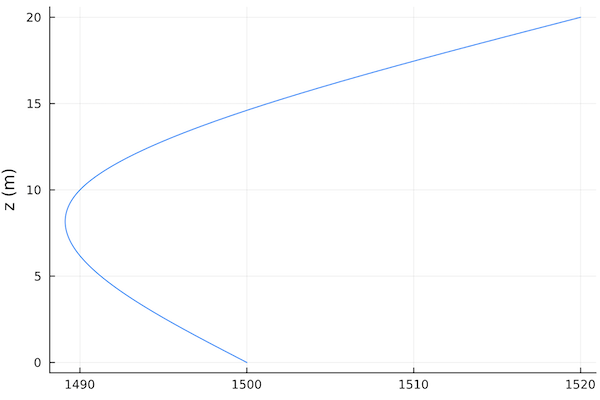
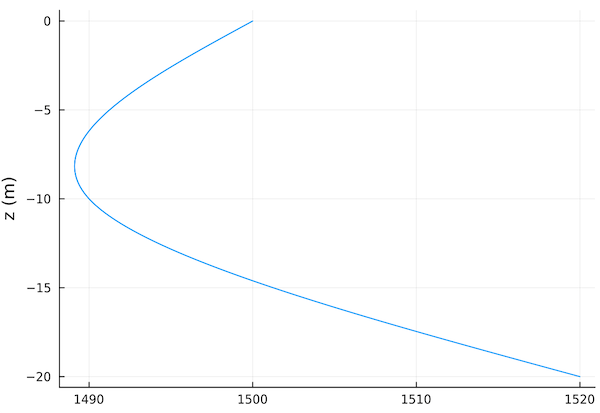
doc: add porting guide and improve quickstart

diff --git a/docs/src/porting.md b/docs/src/porting.md
@@ -1,1 +1,77 @@
 # Porting guide
+
+The `UnderwaterAcoustics.jl` API was changed in `v0.4` to make it more flexible to accommodate more types of acoustic propagation models, and for improved readability. The changes are summarized below to aid in porting old code to the new version.
+
+## Underwater acoustics API
+
+The following functions have been renamed:
+
+| Old function name | New function name          |
+|-------------------|----------------------------|
+| `bubbleresonance` | `bubble_resonance`         |
+| `indBperλ`        | `in_dBperλ`                |
+| `reflectioncoef`  | `reflection_coef`          |
+| `surfaceloss`     | `surface_reflection_coef`  |
+| `waterdensity`    | `water_density`            |
+
+## Propagation modeling API
+
+### Environment description
+
+Various attributes of the environment description are now directly accessed as fields, rather than through accessor methods:
+
+| Old accessor        | New field access |
+|---------------------|------------------|
+| `altimetry(env)`    | `env.altimetry`  |
+| `bathymetry(env)`   | `env.bathymetry` |
+| `ssp(env)`          | `env.soundspeed` |
+| `salinity(env)`     | `env.salinity`   |
+| `waterdensity(env)` | `env.density`    |
+| `seasurface(env)`   | `env.surface`    |
+| `seabed(env)`       | `env.seabed`     |
+
+The environment description supports [Fields](@ref) that can vary with spatial coordinates. This removes the need wrapping of constants with `ConstantDepth()`, `IsoSSP()`, etc. Instead, constant fields are just represented by the real numbers directly. Quantities varying with spatial coordinates are represented generically using a `SampledField` rather than specific types such as `SampledSSP`.
+
+The defaults for an `UnderwaterEnvironment` have also changed to become more generic. For example, the default seabed is now a `RigidBoundary` and the default sea surface is a `PressureReleaseBoundary`. Contrast this against the arbitrary default in `v0.3` of the default seabed being a `SandySilt`.
+
+Noise is no longer defined as part of the environmental description, and is defined as part of the new [Channel modeling](@ref) API.
+
+### Propagation modeling
+
+The `PekerisRayModel` is now renamed to `PekerisRayTracer`, and takes in maximum number of bounces as an optional argument, instead of number of rays. The `eigenrays` function is no longer supported, but its functionality is provided by `arrivals`. While `eigenrays` was specific to ray models, `arrivals` is more generic and may return modes, etc, depending on the propagation model. A few other functions have been renamed:
+
+| Old function                  | New function                        |
+|-------------------------------|-------------------------------------|
+| `PekerisRayModel(env, nrays)` | `PekerisRayTracer(env, maxbounces)` |
+| `eigenrays`                   | `arrivals`                          |
+| `transmissionloss`            | `transmission_loss`                 |
+| `transfercoef`                | `acoustic_field`                    |
+| `impulseresponse`             | `impulse_response`                  |
+
+The plotting API no longer takes special keyword arguments such as `sources` and `receivers`. Instead, plot recipes are provided for each of the data types directly. So we can plot sources, receivers, arrivals, etc directly:
+```julia
+env = PekerisWaveguide(h=20, seabed=SandyClay)
+pm = PekerisRayTracer(env)
+tx = AcousticSource(0.0, -5.0, 1000.0)
+rx = AcousticReceiver(100.0, -10.0)
+rays = arrivals(pm, tx, rx)
+
+plot(env)
+plot!(tx)
+plot!(rx)
+plot!(rays)
+```
+
+### Acoustic simulations
+
+The `record` and `recorder` functions used for acoustic simulations have been removed. Instead, a new [Channel modeling](@ref) API with a `transmit` function provides similar functionality, but is a lot more flexible.
+
+Example:
+```julia
+ch = channel(pm, tx, rx, 192000)
+y = transmit(ch, x)                 # for some signal x
+```
+
+The channel API also supports [Channel replay](@ref) and data-driven acoustic channels that are not derived from propagation models.
+
+Specific sources such as `Pinger` and `NarrowbandAcousticSource` have been removed. Other packages such as `SignalAnalysis` may be used to create a diverse set of sampled signals that can be transmitted through the acoustic channel using the `transmit` function.

diff --git a/docs/src/quickstart.md b/docs/src/quickstart.md
@@ -4,9 +4,19 @@
 
 The underwater acoustic propagation & channel modeling toolkit provides a framework for modeling and simulating underwater acoustic environments with multiple sources and receivers. The toolkit provides a pluggable interface that allows different propagation models to be used with the same scene description. While `UnderwaterAcoustics.jl` provides several propagation model implementations that can be used out-of-the-box, the interface is designed to allow third party propagation models to be easily plugged in to the toolkit as well.
 
-Available models:
+#### Available models:
 
-TODO
+| Model | Package | Description | Language | Strengths | Limitations |
+|-------|---------|-------------|----------|-----------|-------------|
+| `PekerisRayTracer` | `UnderwaterAcoustics` | Ray model for Pekeris waveguides | Julia | fast, differentiable, multi-threaded | isovelocity, range independent, high frequency |
+| `PekerisModeSolver` | `UnderwaterAcoustics` | Normal mode model for Pekeris waveguides | Julia | fast, differentiable, multi-threaded | isovelocity, range independent, low frequency |
+| `RaySolver` | [`AcousticRayTracers`](https://github.com/org-arl/AcousticRayTracers.jl) | Ray / Gaussian beam tracer | Julia | differentiable, multi-threaded | - |
+| `Bellhop` | [`AcousticToolbox`](https://github.com/org-arl/AcousticsToolbox.jl) | Interface to [OALIB](http://oalib.hlsresearch.com/AcousticsToolbox/) Bellhop ray tracer | Fortran | well-established benchmark model | not differentiable |
+| `Kraken` | [`AcousticToolbox`](https://github.com/org-arl/AcousticsToolbox.jl) | Interface to [OALIB](http://oalib.hlsresearch.com/AcousticsToolbox/) Kraken normal mode model | Fortran | well-established benchmark model | not differentiable |
+
+!!! note
+
+    The experimental [`DataDrivenAcoustics`](https://github.com/org-arl/DataDrivenAcoustics.jl) models are loosely based on `UnderwaterAcoustics.jl`, but have not been upgraded to the `v0.4` API yet.
 
 ## Quickstart guide
 
@@ -39,7 +49,7 @@ If the defaults don't suit our needs, we can customize the environment. For exam
 ```julia-repl
 julia> env = UnderwaterEnvironment(
                 bathymetry = 20.0, seabed = SandyClay,
-                soundspeed = SampledField([1500, 1490, 1520]; z=0:10:20, interp=:cubic)
+                soundspeed = SampledField([1500, 1490, 1520]; z=0:-10:-20, interp=:cubic)
               )
 UnderwaterEnvironment(
   bathymetry = 20.0,
@@ -84,6 +94,10 @@ Once we have an environment, we need to select a propagation model. Since we hav
 julia> pm = PekerisRayTracer(env)
 PekerisRayTracer(h=20, maxbounces=3)
 ```
+
+!!! tip
+
+    We can get a list of all available propagation models by calling `models()`, and a shortlist of all models compatible with a given environment by calling `models(env)`.
 
 Next, we need a source and a receiver:
 

diff --git a/docs/src/api.md b/docs/src/api.md
@@ -10,6 +10,7 @@ CurrentModule = UnderwaterAcoustics
 AbstractPropagationModel
 AbstractRayPropagationModel
 AbstractModePropagationModel
+models
 AbstractAcousticArrival
 RayArrival
 ModeArrival
